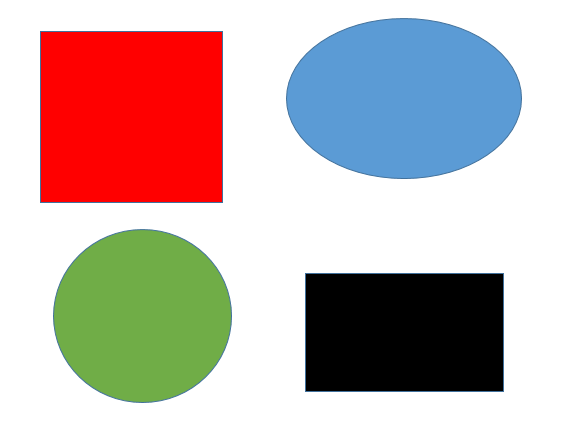
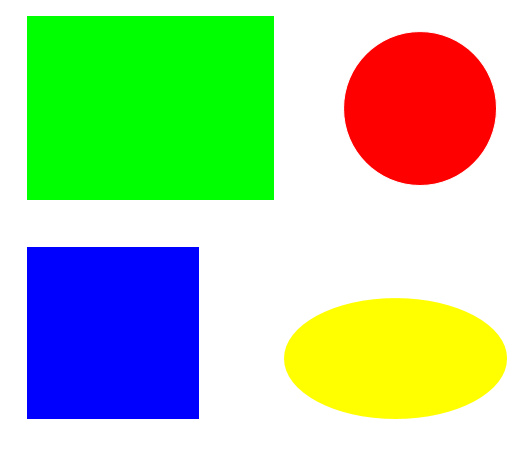
update 8.2

diff --git a/code/第一阶段完成.cpp b/code/第一阶段完成.cpp
@@ -13,12 +13,13 @@ IplImage* originImg;   //初始图像
 IplImage* gaussImg;    //高斯过滤图像
 IplImage* thrImg;      //二值化图像
 IplImage* contourImg;  //轮廓图像
+Mat originMat;         //Mat型原图
 
 CvMemStorage* mem_storage;
 CvSeq *first_contour = NULL, *c = NULL;
 CvPoint pt[4];
-char *filename[]={"/1.png",/*"/2.png",*/0};
-
+char *filename[]={/*"/1.png",*/"/2.png",0};
+const int colorRecgnize=190; //颜色识别的限度
 
 struct Countour{
     //圆形、正方形、长方形、椭圆形4种（ID依次为1, 2, 3, 4）
@@ -36,6 +37,7 @@ void init(int T)
 {//进行图片的初始化
     vecNum=0;
     originImg=cvLoadImage(filename[T]);
+    originMat=imread(filename[T]);
     cvShowImage("原图", originImg);
 //    cvWaitKey(0);
 }
@@ -138,18 +140,52 @@ void drawSquares( IplImage* img, CvSeq* squares )
 }
 //-------辅助形状判断,距离/角度-------
 
+//--------color test-------
+int getColor(int x,int y)
+{
+//    imshow("mat",originMat);
+    // 源图像载入及判断
+    if( !originMat.data )
+       return -1;
+    Mat tempImage = originMat.clone();
+    int watch[3],flag[3];
+    flag[0]=flag[1]=flag[2]=0;
+    for(int i=0;i<3;i++)
+        watch[i] = originMat.at<Vec3b>(x, y)[i];
+
+    for(int i=0;i<3;i++){
+        if(watch[i]>colorRecgnize)   //
+            flag[i]=1;
+    }//BGR蓝绿红
+
+    cvSet2D(originImg,x,y, cvScalar(0, 255, 0, 0));
+    cvShowImage("yanse", originImg);
+    if(flag[0]==0&&flag[1]==1&&flag[2]==1){
+        return 3;//黄
+    }else if(flag[0]==1&&flag[1]==0&&flag[2]==0){
+        return 5;//蓝
+    }else if(flag[0]==0&&flag[1]==1&&flag[2]==0){
+        return 4;//绿
+    }else if(flag[0]==0&&flag[1]==0&&flag[2]==1){
+        return 2;//红
+    }else{
+        return 1;//黑
+    }
+}
+//--------color test-------
+
 //-------形状判断-------
 int checkRec(CvSeq *contours,CvSeq *&squares)
 {
     int i;
     double s,t;
     CvSeq* result;
-    if(0){//如果是图像框,则跳过
-        return 1;
-    }
     // 使用近似轮廓精度与轮廓周长成比例
     result = cvApproxPoly( contours, sizeof(CvContour), mem_storage,
         CV_POLY_APPROX_DP, cvContourPerimeter(contours)*0.02, 0 );
+    if(0){//如果是图像框,则跳过
+        return 1;
+    }
     // 矩形轮廓在近似后有四个顶点
     // 相对较大的区域判断过滤掉噪声轮廓，并且是凸的
     // 注意：使用一个区域的绝对值，区域可能是正面或负面，按照轮廓方向
@@ -198,8 +234,10 @@ int checkRec(CvSeq *contours,CvSeq *&squares)
         VecCol[vecNum].S=sqrt(disA)*sqrt(disB);
         //计算中心点的位置
         CvPoint recCenter,mid,up;
-        VecCol[vecNum].X=recCenter.x=(temp[0]->x+temp[1]->x+temp[2]->x+temp[3]->x)/4;
-        VecCol[vecNum].Y=recCenter.y=(temp[0]->y+temp[1]->y+temp[2]->y+temp[3]->y)/4;
+//        VecCol[vecNum].X=recCenter.x=(temp[0]->x+temp[1]->x+temp[2]->x+temp[3]->x)/4.0;
+//        VecCol[vecNum].Y=recCenter.y=(temp[0]->y+temp[1]->y+temp[2]->y+temp[3]->y)/4.0;
+        VecCol[vecNum].X=recCenter.x=(temp[0]->x+temp[2]->x)/2.0;
+        VecCol[vecNum].Y=recCenter.y=(temp[0]->y+temp[2]->y)/2.0;
 
         //计算旋转角度
         mid.x=(temp[0]->x+temp[1]->x)/2;
@@ -213,8 +251,13 @@ int checkRec(CvSeq *contours,CvSeq *&squares)
         else
             VecCol[vecNum].TH=90-ang;
         cout<<endl<<"angle::"<<ang<<endl;
-        vecNum++;
+
+//        VecCol[vecNum].ID[0]=getColor(104,76);
+
+        VecCol[vecNum].ID[0]=getColor(VecCol[vecNum].Y+10,VecCol[vecNum].X+10);
         //保存信息完成
+
+        vecNum++;
         return 1;   //是矩形或者正方形
     }
     return 0;     //不是矩形,进行下一个形状的检测
@@ -228,7 +271,6 @@ int checkRound(CvSeq *contours)
 void check()
 {//在已经提取好的thrImg二值轮廓中一一判断每个轮廓
     CvSeq* contours;
-
     mem_storage = cvCreateMemStorage(0);
     CvSeq* squares = cvCreateSeq( 0, sizeof(CvSeq), sizeof(CvPoint), mem_storage );
 
@@ -245,7 +287,6 @@ void check()
     //遍历每个轮廓
     while( contours )
     {
-
         if(checkRec(contours,squares)){
             cout<<"Rec"<<endl;  //该轮廓是矩形
 //            continue;
@@ -258,6 +299,19 @@ void check()
 //        drawSquares(  originImg,  squares );
 //        cvShowImage("draw", originImg);
 //        cvWaitKey(0);
+
+#if 0  //傻瓜过滤掉最后一个也就是图片外框
+        CvSeq *contemp;
+        contemp=contours;
+        contemp=contemp->h_next;
+        contemp=contemp->h_next;
+        if(contemp){
+            contemp=contemp->h_next;
+            contemp=contemp->h_next;
+            if(contemp==0)
+                break;
+        }
+#endif
         //两次去掉对称的情况
         contours = contours->h_next;
         contours = contours->h_next;
@@ -265,6 +319,9 @@ void check()
     cvClearMemStorage(mem_storage);
 }
 //-------形状判断-------
+
+
+
 
 //-------流程控制&释放内存-------
 void PrintC()
@@ -305,12 +362,12 @@ void control()
         check();
         PrintC();
         release();
-        
+
         cvWaitKey(0);
         T++;
     }
 }
-//-------二值化&寻找轮廓-------
+//-------流程控制&释放内存-------
 
 int main()
 {
